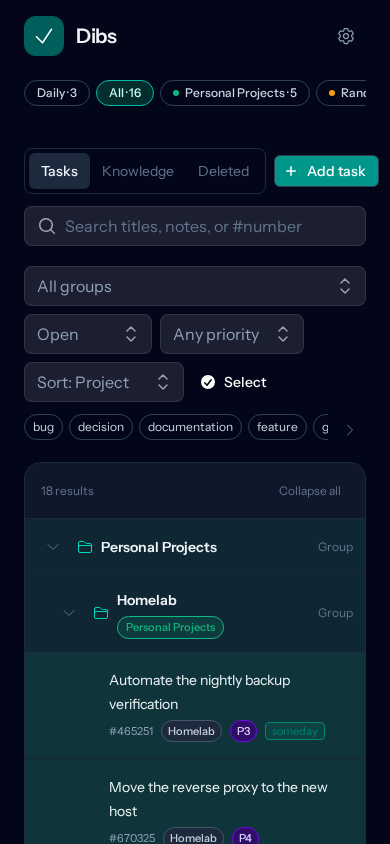
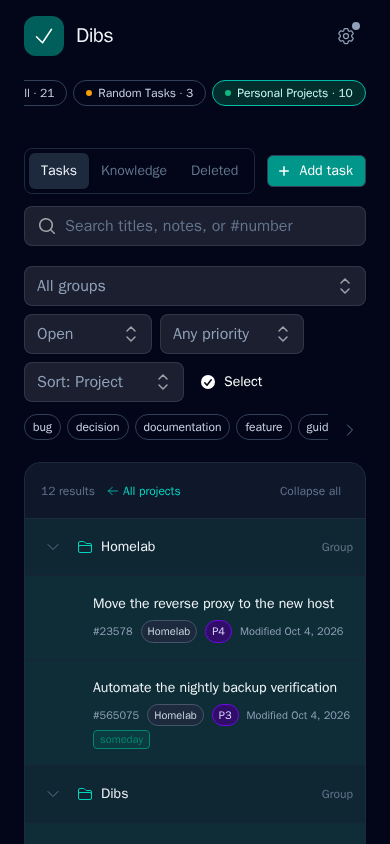
Refresh README screenshots for the current UI
Re-shot all five images from the DemoSeeder in local-only mode, and add
scripts/readme-screenshots.mjs (Playwright) so they can be re-shot.

diff --git a/CONTRIBUTING.md b/CONTRIBUTING.md
@@ -58,6 +58,8 @@ The browser suite runs in its own `app-test` container (Node.js and Chromium), b
 Open a [GitHub issue](https://github.com/loki495/dibs/issues/new/choose) with enough detail to reproduce
 (for a bug) or the problem you're trying to solve (for a feature request). Screenshots help for UI issues.
 
+README screenshots: `scripts/readme-screenshots.mjs` (Playwright) re-shoots `docs/images/` from a throwaway, DemoSeeder-seeded local-only instance. Set `BASE_URL`, `OUT_DIR` and `DETAIL_TASK` (a task title with a live claim and comments, which the script opens for the detail panel).
+
 ## Security issues
 
 Don't open a public issue. Use GitHub's private vulnerability reporting, as described in

diff --git a/README.md b/README.md
@@ -27,7 +27,7 @@ local SQLite is authoritative.
   <img src="docs/images/screenshot-dark-desktop.png" alt="Dibs workspace, dark theme" width="49%">
 </p>
 <p>
-  <img src="docs/images/screenshot-detail-panel.png" alt="Task detail panel with comments" width="49%">
+  <img src="docs/images/screenshot-detail-panel.png" alt="Task detail panel with a live claim, comments and Close button" width="49%">
   <img src="docs/images/screenshot-light-mobile.png" alt="Dibs on mobile" width="23.5%">
   <img src="docs/images/screenshot-dark-mobile.png" alt="Dibs on mobile, dark theme" width="23.5%">
 </p>
